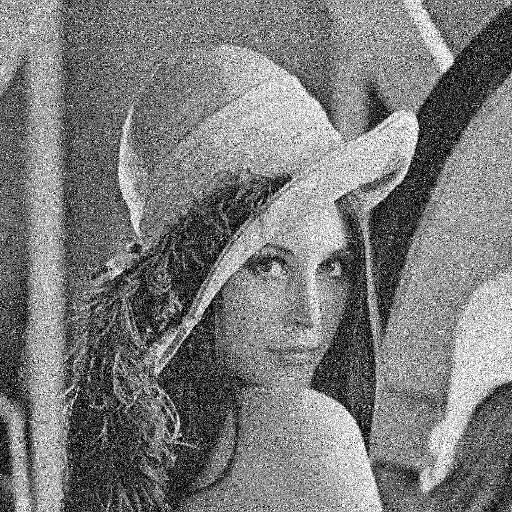
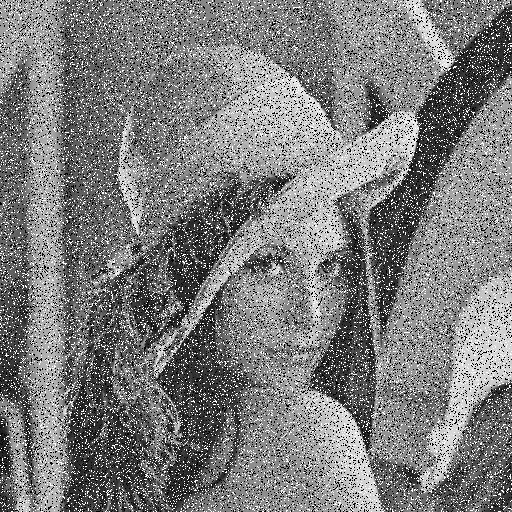
read me update

diff --git a/WINNet_denoise_test.py b/WINNet_denoise_test.py
@@ -65,21 +65,21 @@ def main():
         Img = np.expand_dims(Img, 1)
         ISource = torch.Tensor(Img)
         # noise
-        noise = torch.FloatTensor(ISource.size()).normal_(mean=0, std=opt.test_noiseL/255.) # AG CG
-        #noise = np.zeros((ImgT.shape[0],ImgT.shape[1]),dtype=np.uint8) #SP
-        #cv2.randu(noise,0,255) #SP
-        #noisew = cv2.threshold(noise,220,255,cv2.THRESH_BINARY)[1]*(-1) #SP
-        #cv2.randu(noise,0,255) #SP
-        #noiseb = cv2.threshold(noise,220,255,cv2.THRESH_BINARY)[1] #SP
-        #noise = noiseb+noisew #SP
-        #noise = torch.Tensor(noise) #SP
+        #noise = torch.FloatTensor(ISource.size()).normal_(mean=0, std=opt.test_noiseL/255.) # AG CG
+        noise = np.zeros((ImgT.shape[0],ImgT.shape[1]),dtype=np.uint8) #SP
+        cv2.randu(noise,0,255) #SP
+        noisew = cv2.threshold(noise,220,255,cv2.THRESH_BINARY)[1]*(-1) #SP
+        cv2.randu(noise,0,255) #SP
+        noiseb = cv2.threshold(noise,220,255,cv2.THRESH_BINARY)[1] #SP
+        noise = noiseb+noisew #SP
+        noise = torch.Tensor(noise) #SP
         con_noise = np.concatenate([np.random.normal(0, 15/225, size=(ImgT.shape[0]//2, ImgT.shape[1])),np.random.normal(0, 50/255, size=(ImgT.shape[0]//2, ImgT.shape[1]))]) #CG change +1 accordingly
         np.random.shuffle(con_noise) #CG
         con_noise = torch.FloatTensor(con_noise) #CG
         # noisy image
         INoisy = ISource + noise #AG SP
         #INoisy = torch.poisson(ISource) #P
-        INoisy = ISource + noise + con_noise #CG
+        #INoisy = ISource + noise + con_noise #CG
         ISource, INoisy = Variable(ISource.cuda()), Variable(INoisy.cuda())
 
         stdNv_test = Variable(opt.test_noiseL * torch.ones(1).cuda())

diff --git a/README.md b/README.md
@@ -1,82 +1,1 @@
-# [WINNet: Wavelet-inspired Invertible Network for Image Denoising](https://ieeexplore.ieee.org/document/9807636)
-
-<!--![visitors](https://visitor-badge.glitch.me/badge?page_id=jjhuangcs/WINNet)-->
-
-[Jun-Jie Huang](https://jjhuangcs.github.io/) (jjhuang@nudt.edu.cn) and [Pier Luigi Dragotti](http://www.commsp.ee.ic.ac.uk/~pld/)
-
-Pytorch implementation for "WINNet: Wavelet-inspired Invertible Network for Image Denoising" (TIP'2022).
-
-<img width="654" alt="WINNet" src="https://user-images.githubusercontent.com/89965355/178172283-b6b9e7da-add2-44ad-b83d-3b87918a8c5b.png">
-
-Overview of the proposed wavelet-inspired invertible network (WINNet). It consists of K levels of lifting inspired invertible neural networks (LINN) and denoising network. The forward transform of LINN non-linearly converts the input noisy image into coarse part (green) and detail parts (black). Denoising network will perform denoising operation on the detail part while the coarse version is decomposed again using a second level and the decomposition and denoising steps are repeated K times. The backward transform of the LINN will reconstruct the denoised image using the denoised detail parts and the original coarse part. The estimated noise level from the noise estimation network will be used to adjust the soft-thresholds of the soft-thresholding non-linearity to make the WINNet to adapt well to the current noise level.
-
-# 1. Dependencies
-* Python
-* torchvision
-* PyTorch>=1.0
-* OpenCV for Python
-* HDF5 for Python
-* tensorboardX (Tensorboard for Python)
-
-# 2. Usage
-
-## 2.1. Training
-
-The 400 training images from the Berkeley segmentation dataset (BSD) of size 180 × 180 are used for training. The training patch size for
-non-blind and blind denoising setting is 40×40 and 50×50, respectively.
-
-### Training WINNet with known noise level
-```python WINNet_denoise_train.py --mode S --lr 0.001 --outf logs/WINNet_lvl_1_nlvl_25 --lvl 1 --noiseL 25```
-
-Note: For training with a single noise level, three noise levels are considered, i.e., $\sigma_N$ = 15, 25 and 50.
-
-### Training WINNet with blind noise level [0, 55]
-```python WINNet_denoise_train.py --mode B --lr 0.001 --outf logs/WINNet_lvl_1_nlvl_0_55 --lvl 1```
-
-Note: For blind image denoising scenario, the training noise level $\sigma_N$ is uniformly drawn from [0, 55].
-
-### Training Noise Estimation Network (NENet)
-```python NENet_train.py --lr 0.001 --outf logs/NENet```
-
-Note: For training NENet, the training noise level $\sigma_N$ is uniformly drawn from [0, 55].
-
-## 2.2. Testing
-
-### Testing for denoising with known noise level
-```python WINNet_denoise_test.py --logdir pretrain/WINNet_lvl_1_nlvl_25 --lvl 1 --test_noiseL 25 --test_data Set12```
-
-### Testing for blind denoising
-```python WINNet_wNE_blind_denoise_test.py --logdirdn pretrain/WINNet_lvl_1_nlvl_0_55 --logdirne pretrain/NENet --lvl 1 --test_data Set12 --test_noiseL 85```
-
-### Testing for deblurring
-```python WINNet_deblur_test.py --logdirdn pretrain/WINNet_lvl_1_nlvl_0_55 --logdirne pretrain/NENet --lvl 1 --test_data Set12 --test_noiseL 2.55```
-
-# Citation
-
-If you use any part of this code in your research, please cite our paper:
-
-
-```
-@article{huang2022WINNet,
-  author={Huang, Jun-Jie and Dragotti, Pier Luigi},
-  journal={IEEE Transactions on Image Processing},
-  title={{WINNet}: Wavelet-Inspired Invertible Network for Image Denoising},
-  year={2022},
-  volume={31},
-  number={},
-  pages={4377-4392},
-  doi={10.1109/TIP.2022.3184845}
-}
-```
-```
-@inproceedings{huang2021linn,
-  author={Huang, Jun-Jie and Dragotti, Pier Luigi},
-  title={{LINN}: Lifting Inspired Invertible Neural Networks for Image Denoising},
-  booktitle={2021 29th European Signal Processing Conference (EUSIPCO)}, 
-  year={2021},
-  pages={636-640},
-  organization={EURASIP},
-  doi={10.23919/EUSIPCO54536.2021.9615931}
-}
-```
-
+This is an updated repository of https://github.com/jjhuangcs/WINNet. Please go to the original repository for instructions for use. All credit goes to the original author.
